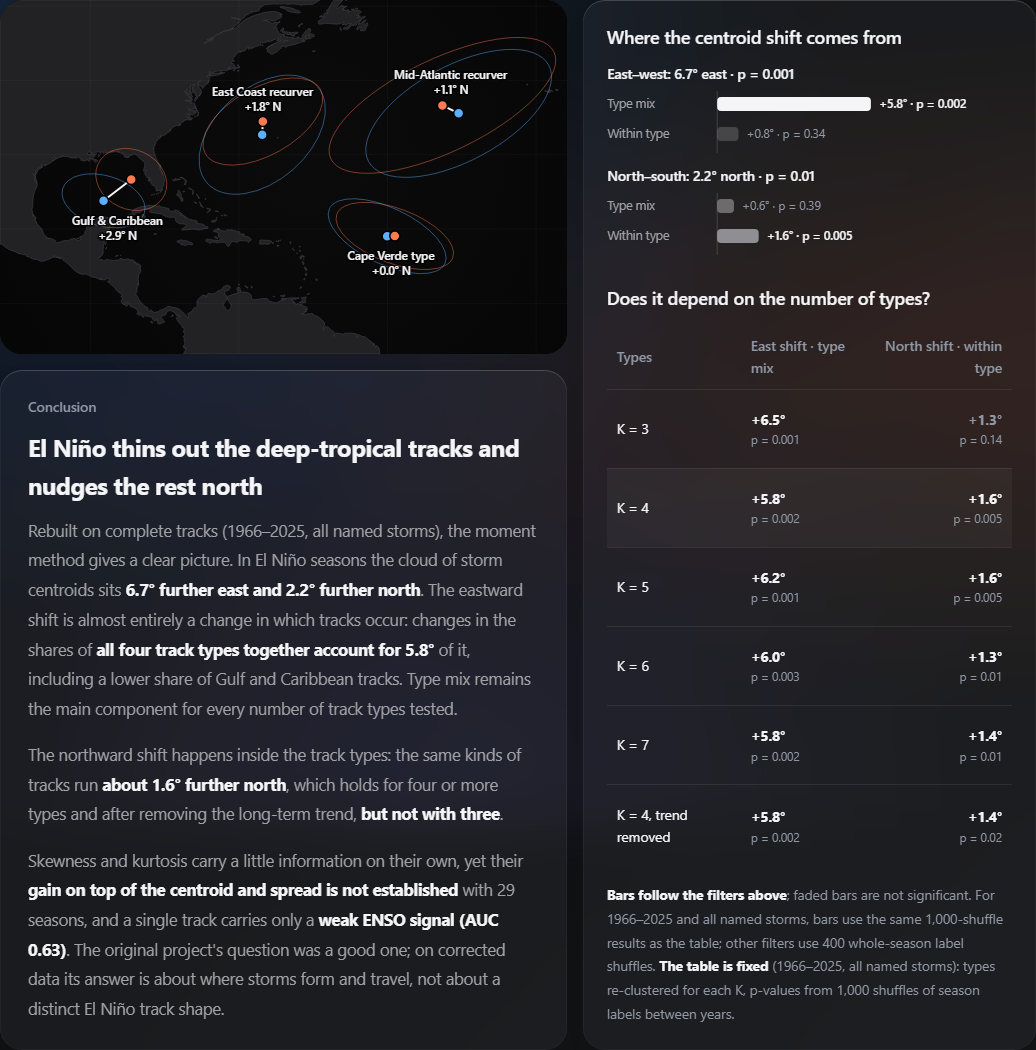
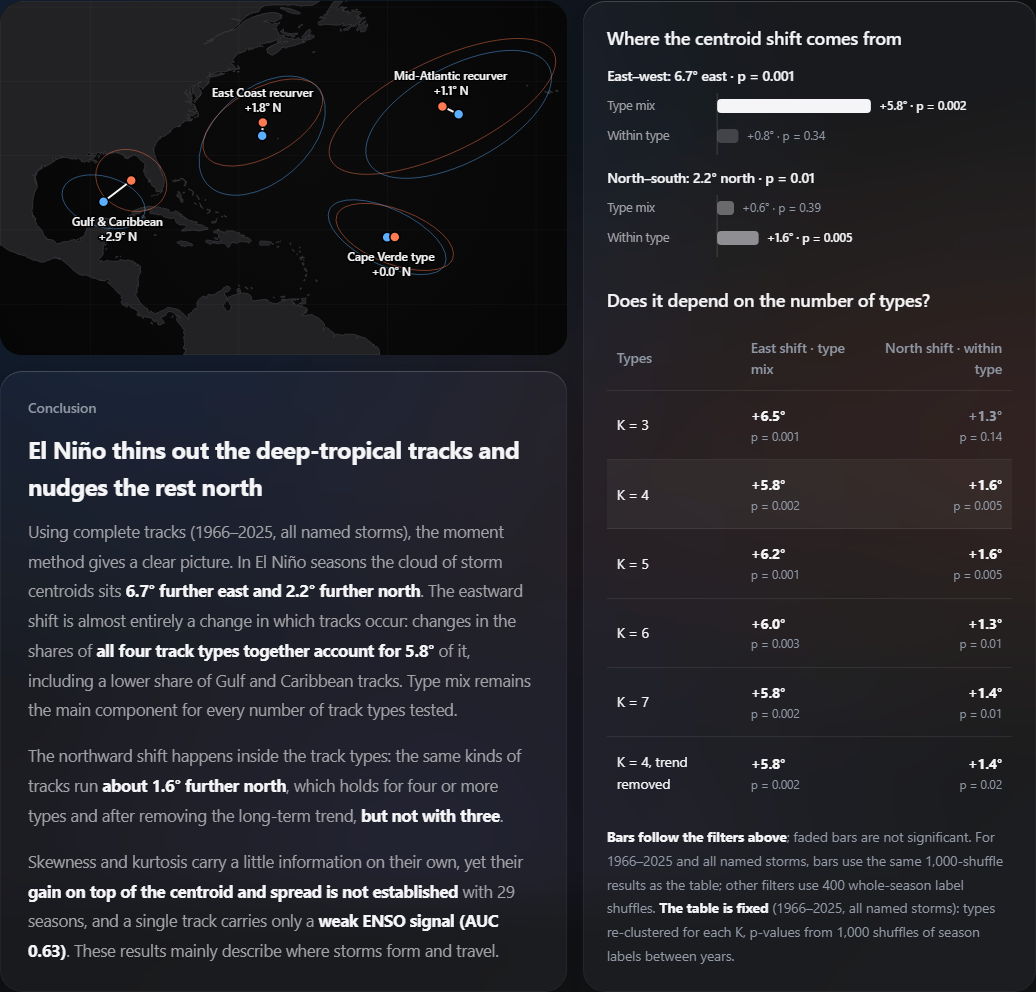
Remove original project commentary from the atlas and preview

diff --git a/docs/index.html b/docs/index.html
@@ -611,7 +611,7 @@ body {
       <div><h4 data-i="mLimits"></h4><ul data-i="mLimitsList"></ul></div>
     </div>
   </details>
-  <footer><span id="src"></span><span data-i="credit"></span></footer>
+  <footer><span id="src"></span></footer>
 </div>
 <div id="tip" hidden></div>
 
@@ -684,10 +684,10 @@ const I18N = {
     robH: 'Does it depend on the number of types?', robK: 'Types', robEast: 'East shift · type mix', robNorth: 'North shift · within type', robDetr: 'K = 4, trend removed',
     decNote: '<strong>Bars follow the filters above</strong>; faded bars are not significant. For 1966–2025 and all named storms, bars use the same 1,000-shuffle results as the table; other filters use 400 whole-season label shuffles. <strong>The table is fixed</strong> (1966–2025, all named storms): types re-clustered for each K, p-values from 1,000 shuffles of season labels between years.',
     conclIdx: 'Conclusion', conclH: 'El Niño thins out the deep-tropical tracks and nudges the rest north',
-    concl: (lon, lat, mix, within, n, auc) => `<span class="reading-block">Rebuilt on complete tracks (1966–2025, all named storms), the moment method gives a clear picture. In El Niño seasons the cloud of storm centroids sits <strong>${lon}° further east and ${lat}° further north</strong>. The eastward shift is almost entirely a change in which tracks occur: changes in the shares of <strong>all four track types together account for ${mix}°</strong> of it, including a lower share of Gulf and Caribbean tracks. Type mix remains the main component for every number of track types tested. </span><span class="reading-block">The northward shift happens inside the track types: the same kinds of tracks run <strong>about ${within}° further north</strong>, which holds for four or more types and after removing the long-term trend, <strong>but not with three</strong>. </span><span class="reading-block">Skewness and kurtosis carry a little information on their own, yet their <strong>gain on top of the centroid and spread is not established</strong> with ${n} seasons, and a single track carries only a <strong>weak ENSO signal (AUC ${auc})</strong>. The original project's question was a good one; on corrected data its answer is about where storms form and travel, not about a distinct El Niño track shape.</span>`,
+    concl: (lon, lat, mix, within, n, auc) => `<span class="reading-block">Using complete tracks (1966–2025, all named storms), the moment method gives a clear picture. In El Niño seasons the cloud of storm centroids sits <strong>${lon}° further east and ${lat}° further north</strong>. The eastward shift is almost entirely a change in which tracks occur: changes in the shares of <strong>all four track types together account for ${mix}°</strong> of it, including a lower share of Gulf and Caribbean tracks. Type mix remains the main component for every number of track types tested. </span><span class="reading-block">The northward shift happens inside the track types: the same kinds of tracks run <strong>about ${within}° further north</strong>, which holds for four or more types and after removing the long-term trend, <strong>but not with three</strong>. </span><span class="reading-block">Skewness and kurtosis carry a little information on their own, yet their <strong>gain on top of the centroid and spread is not established</strong> with ${n} seasons, and a single track carries only a <strong>weak ENSO signal (AUC ${auc})</strong>. These results mainly describe where storms form and travel.</span>`,
     fpIdx: 'Method check',
-    fpH2: 'Track moments, retested: the centroid shift holds; any gain from higher orders is unproven',
-    fpSub: 'The original project follows Nakamura, Lall, Kushnir and Camargo (2009, <i>Journal of Climate</i>), who summarized each North Atlantic track by its “mass moments” (centroid, variance and covariance) and grouped the tracks. Here the method is rebuilt on <strong>complete tracks</strong>, its ENSO signal is retested, and the project’s own extension to <strong>skewness and kurtosis</strong> is put to the test.',
+    fpH2: 'Track moments: the centroid shift holds; any gain from higher orders is unproven',
+    fpSub: 'Nakamura, Lall, Kushnir and Camargo (2009, <i>Journal of Climate</i>) summarized each North Atlantic track by its “mass moments” (centroid, variance and covariance) and grouped the tracks. This atlas applies mass moments to <strong>complete tracks</strong> to assess their ENSO signal and test whether <strong>skewness and kurtosis add information</strong>.',
     vCen: 'Centroid shift in El Niño years', vCenSub: (d, dir, px, py) => `and ${d}° further ${dir} · east–west ${px}, north–south ${py}`,
     vTilt: 'Northeast tilt (covariance)', vTiltSub: (a, b, p) => `El Niño ${a} vs La Niña ${b} deg² · ${p}`,
     vHigh: 'Skewness & kurtosis on top of the centroid and spread', vHighSub: (a, b, lo, hi) => `AUC ${a} → ${b}; season-bootstrap 95% interval for the gain: ${lo} to ${hi}`,
@@ -711,7 +711,7 @@ const I18N = {
     cenArrow: (dx, xd, dy, yd) => `${dx}° ${xd}, ${dy}° ${yd}`,
     cenLegDots: 'Storm centroids (El Niño / La Niña years)', cenLegEll: 'Typical 1σ shape', cenLegArrow: 'Arrow: La Niña mean → El Niño mean', centroidAt: 'Centroid',
     s3H: 'Third and fourth order: maybe a little extra, not yet established',
-    s3P: (h, hn, a, b, n, lo, hi) => `The original project added skewness and kurtosis. Their distributions overlap heavily between El Niño and La Niña storms, but they are not empty: on their own they reach an <strong>AUC of ${h}</strong> (shuffled seasons average ${hn}). Added to the centroid and spread they lift <strong>AUC from ${a} to ${b}</strong>, yet with only ${n} labelled seasons that gain sits within season-to-season noise (<strong>bootstrap 95% interval ${lo} to ${hi}</strong>). Whether they add anything beyond the lower moments is <strong>still an open question</strong>.`,
+    s3P: (h, hn, a, b, n, lo, hi) => `Skewness and kurtosis distributions overlap heavily between El Niño and La Niña storms, but they are not empty: on their own they reach an <strong>AUC of ${h}</strong> (shuffled seasons average ${hn}). Added to the centroid and spread they lift <strong>AUC from ${a} to ${b}</strong>, yet with only ${n} labelled seasons that gain sits within season-to-season noise (<strong>bootstrap 95% interval ${lo} to ${hi}</strong>). Whether they add anything beyond the lower moments is <strong>still an open question</strong>.`,
     ridgeH: 'Distribution of each higher moment', ridgeAria: 'Density curves of skewness and kurtosis for El Niño and La Niña storms',
     overlap: o => `${o}% overlap`, meanDiff: p => `mean difference ${p}`, ridgeFoot: 'Dashed lines: group means. Overlap: the shared area of the two normalised distributions.',
     allMomSum: 'All nine moments, by group', thOrder: 'Order', thMoment: 'Moment',
@@ -723,7 +723,6 @@ const I18N = {
     mMethodsList: '<li>ACE = sum of squared wind speeds at tropical-stage fixes ≥ 34 kt ÷ 10⁴.</li><li>US landfall: a fix with <code>LANDFALL = 0</code> and ≥ 34 kt inside the contiguous US polygon.</li><li>Significance: permutation tests by season (4,000 shuffles, fixed seed), so storms from the same year are never treated as independent. p-values are Monte Carlo estimates and can differ in the last digit from the Python scripts.</li><li>Track types: arc-length resampling to 16 points, then one K-Means model with K = 4 (highest silhouette for K = 3–7: <span class="mono" id="sil"></span>).</li><li>Moments: computed from the latitude and longitude of 6-hourly fixes; storms with fewer than 4 fixes are skipped.</li>',
     mLimitsList: '<li>Each ENSO phase includes relatively few seasons, so one extreme season can move an average.</li><li>Before satellites (pre-1966), short-lived storms far out at sea were missed, so the default period starts in 1966.</li><li>The AMO and the long-term Atlantic warming trend also affect activity and are not controlled for here. 2023 is the counterexample: an El Niño year that was still busy.</li><li>Everything shown is correlation. The mechanism (El Niño strengthens wind shear over the Caribbean) comes from the literature and is not tested here.</li>',
     phaseSampleSize: (y0, y1, nina, nino) => `${y0}–${y1}: ${nina} La Niña seasons and ${nino} El Niño seasons. With these small samples, one extreme season can move an average.`,
-    credit: 'Redesigned from sarika-debruyn/hurricane-prediction-ml.',
     src: (a, b) => `Data: ${a}; ${b}. Coastlines: Natural Earth 1:50m.`,
     phn: { nino: 'El Niño', neutral: 'Neutral', nina: 'La Niña' },
     phy: { nino: 'El Niño years', neutral: 'Neutral years', nina: 'La Niña years' },
@@ -816,10 +815,10 @@ const I18N = {
     robH: '换聚类数，结论还在吗？', robK: '类型数', robEast: '东移 · 类型构成', robNorth: '北移 · 类内', robDetr: 'K = 4，扣除长期趋势',
     decNote: '<strong>条形图随上方筛选变化</strong>，淡色表示不显著。1966 年起、全部风暴时，条形图与表格共用 1000 次置换的结果；其他筛选使用 400 次按整年打乱标签的置换。<strong>表格为固定结果</strong>（1966–2025 年，全部命名风暴）：每个 K 都重新聚类，p 值来自在年份之间打乱标签 1000 次。',
     conclIdx: '结论', conclH: '厄尔尼诺削减深热带路径，并把其余风暴往北推',
-    concl: (lon, lat, mix, within, n, auc) => `<span class="reading-block">在完整路径上重建矩方法后（1966–2025 年，全部命名风暴），结论很清楚。厄尔尼诺年，风暴质心整体<strong>偏东 ${lon}°、偏北 ${lat}°</strong>。东移几乎全部来自路径类型的变化：<strong>四类路径的构成变化合计贡献了其中的 ${mix}°</strong>，其中墨西哥湾—加勒比型占比下降。类型构成是东移的主要部分，这一点在所有测试的聚类数下都成立。</span><span class="reading-block">北移则发生在各类路径内部：同一类路径整体<strong>偏北约 ${within}°</strong>，在分成 4 类及以上、以及扣除长期趋势后都成立，但<strong>分成 3 类时不显著</strong>。</span><span class="reading-block">偏度和峰度单独使用时带有一点信息，但只有 ${n} 个年份，它们在质心和铺开范围之上的<strong>增益尚未证实</strong>；单条路径携带的 ENSO <strong>信号也很弱（AUC ${auc}）</strong>。原项目提出的问题是好问题；在修正后的数据上，答案在于风暴在哪里生成、往哪里走，而不在于存在一种独特的“厄尔尼诺路径形状”。</span>`,
+    concl: (lon, lat, mix, within, n, auc) => `<span class="reading-block">基于完整路径的矩分析（1966–2025 年，全部命名风暴），结论很清楚。厄尔尼诺年，风暴质心整体<strong>偏东 ${lon}°、偏北 ${lat}°</strong>。东移几乎全部来自路径类型的变化：<strong>四类路径的构成变化合计贡献了其中的 ${mix}°</strong>，其中墨西哥湾—加勒比型占比下降。类型构成是东移的主要部分，这一点在所有测试的聚类数下都成立。</span><span class="reading-block">北移则发生在各类路径内部：同一类路径整体<strong>偏北约 ${within}°</strong>，在分成 4 类及以上、以及扣除长期趋势后都成立，但<strong>分成 3 类时不显著</strong>。</span><span class="reading-block">偏度和峰度单独使用时带有一点信息，但只有 ${n} 个年份，它们在质心和铺开范围之上的<strong>增益尚未证实</strong>；单条路径携带的 ENSO <strong>信号也很弱（AUC ${auc}）</strong>。这些结果主要描述风暴在哪里生成、往哪里走。</span>`,
     fpIdx: '方法检验',
-    fpH2: '重新检验矩方法：质心偏移站得住，高阶矩的增益尚未证实',
-    fpSub: '原项目的方法来自 Nakamura、Lall、Kushnir 与 Camargo（2009，<i>Journal of Climate</i>）：用路径的“质量矩”（质心、方差、协方差）概括每条北大西洋路径，再据此分类。这里在<strong>完整路径</strong>上重建这套方法，重新检验它的 ENSO 信号，并检验原项目额外加入的<strong>偏度和峰度是否有用</strong>。',
+    fpH2: '路径的矩分析：质心偏移站得住，高阶矩的增益尚未证实',
+    fpSub: 'Nakamura、Lall、Kushnir 与 Camargo（2009，<i>Journal of Climate</i>）用路径的“质量矩”（质心、方差、协方差）概括每条北大西洋路径，再据此分类。本图谱基于<strong>完整路径</strong>进行矩分析，评估其中的 ENSO 信号，并检验<strong>偏度和峰度能否提供额外信息</strong>。',
     vCen: '厄尔尼诺年路径质心偏移', vCenSub: (d, dir, px, py) => `同时${dir} ${d}° · 东西向 ${px}，南北向 ${py}`,
     vTilt: '东北向倾斜（协方差）', vTiltSub: (a, b, p) => `厄尔尼诺 ${a}，拉尼娜 ${b}（度²）· ${p}`,
     vHigh: '在质心和铺开范围之上加入偏度与峰度', vHighSub: (a, b, lo, hi) => `AUC ${a} → ${b}；按年份 bootstrap 的增益 95% 区间：${lo} 至 ${hi}`,
@@ -843,7 +842,7 @@ const I18N = {
     cenArrow: (dx, xd, dy, yd) => `${xd} ${dx}°，${yd} ${dy}°`,
     cenLegDots: '风暴质心（厄尔尼诺年 / 拉尼娜年）', cenLegEll: '典型 1σ 形状', cenLegArrow: '箭头：拉尼娜均值 → 厄尔尼诺均值', centroidAt: '质心',
     s3H: '三阶、四阶矩：也许多一点信号，但尚未证实',
-    s3P: (h, hn, a, b, n, lo, hi) => `原项目额外加入了偏度和峰度。它们在两类年份之间的分布高度重叠，但并非毫无信息：单独使用时 <strong>AUC 为 ${h}</strong>（打乱年份标签后平均 ${hn}）。加在质心和铺开范围之上，<strong>AUC 从 ${a} 升到 ${b}</strong>；但只有 ${n} 个有标签的年份，这点增益落在年份间的随机波动之内（<strong>bootstrap 95% 区间 ${lo} 至 ${hi}</strong>）。它们能否在低阶矩之外提供额外信息，<strong>目前还没有定论</strong>。`,
+    s3P: (h, hn, a, b, n, lo, hi) => `偏度和峰度在两类年份之间的分布高度重叠，但并非毫无信息：单独使用时 <strong>AUC 为 ${h}</strong>（打乱年份标签后平均 ${hn}）。加在质心和铺开范围之上，<strong>AUC 从 ${a} 升到 ${b}</strong>；但只有 ${n} 个有标签的年份，这点增益落在年份间的随机波动之内（<strong>bootstrap 95% 区间 ${lo} 至 ${hi}</strong>）。它们能否在低阶矩之外提供额外信息，<strong>目前还没有定论</strong>。`,
     ridgeH: '各高阶矩的分布', ridgeAria: '厄尔尼诺年与拉尼娜年风暴的偏度、峰度分布曲线',
     overlap: o => `重叠 ${o}%`, meanDiff: p => `均值差 ${p}`, ridgeFoot: '虚线：组均值。重叠：两条归一化分布共同覆盖的面积。',
     allMomSum: '全部 9 个矩的分组数值', thOrder: '阶', thMoment: '矩',
@@ -855,7 +854,6 @@ const I18N = {
     mMethodsList: '<li>ACE = 热带阶段 ≥ 34 kt 的定时点风速平方和 ÷ 10⁴。</li><li>美国登陆：<code>LANDFALL = 0</code> 且 ≥ 34 kt 的点落在美国本土多边形内。</li><li>显著性：以年为单位的置换检验，4000 次，固定种子，没有把同一年的风暴当作独立样本。p 值是蒙特卡洛估计，末位可能与 Python 脚本略有差异。</li><li>路径类型：弧长重采样 16 点后做单一 K-Means，K = 4（K = 3–7 中轮廓系数最高，<span class="mono" id="sil"></span>）。</li><li>高阶矩：在 6 小时定时点的经纬度上计算；少于 4 个点的风暴不计入。</li>',
     mLimitsList: '<li>各 ENSO 位相的样本年份较少，单个极端季节就能拉动均值。</li><li>1966 年前没有卫星，远洋短命风暴有漏记，所以默认从 1966 年开始统计。</li><li>AMO 和大西洋变暖趋势也会影响活跃度，这里没有控制。2023 年就是厄尔尼诺年风暴依然很多的反例。</li><li>页面展示的是相关性；“厄尔尼诺增强加勒比上空的风切变”这一机制来自文献，不是本页检验的结果。</li>',
     phaseSampleSize: (y0, y1, nina, nino) => `${y0}–${y1} 年：拉尼娜 ${nina} 年、厄尔尼诺 ${nino} 年。样本年份较少，单个极端季节就能拉动均值。`,
-    credit: '由 sarika-debruyn/hurricane-prediction-ml 重新设计。',
     src: (a, b) => `数据：${a}；${b}。海岸线 Natural Earth 1:50m。`,
     phn: { nino: '厄尔尼诺', neutral: '中性', nina: '拉尼娜' },
     phy: { nino: '厄尔尼诺年', neutral: '中性年', nina: '拉尼娜年' },

diff --git a/site/template.html b/site/template.html
@@ -604,7 +604,7 @@ body {
       <div><h4 data-i="mLimits"></h4><ul data-i="mLimitsList"></ul></div>
     </div>
   </details>
-  <footer><span id="src"></span><span data-i="credit"></span></footer>
+  <footer><span id="src"></span></footer>
 </div>
 <div id="tip" hidden></div>
 
@@ -677,10 +677,10 @@ const I18N = {
     robH: 'Does it depend on the number of types?', robK: 'Types', robEast: 'East shift · type mix', robNorth: 'North shift · within type', robDetr: 'K = 4, trend removed',
     decNote: '<strong>Bars follow the filters above</strong>; faded bars are not significant. For 1966–2025 and all named storms, bars use the same 1,000-shuffle results as the table; other filters use 400 whole-season label shuffles. <strong>The table is fixed</strong> (1966–2025, all named storms): types re-clustered for each K, p-values from 1,000 shuffles of season labels between years.',
     conclIdx: 'Conclusion', conclH: 'El Niño thins out the deep-tropical tracks and nudges the rest north',
-    concl: (lon, lat, mix, within, n, auc) => `<span class="reading-block">Rebuilt on complete tracks (1966–2025, all named storms), the moment method gives a clear picture. In El Niño seasons the cloud of storm centroids sits <strong>${lon}° further east and ${lat}° further north</strong>. The eastward shift is almost entirely a change in which tracks occur: changes in the shares of <strong>all four track types together account for ${mix}°</strong> of it, including a lower share of Gulf and Caribbean tracks. Type mix remains the main component for every number of track types tested. </span><span class="reading-block">The northward shift happens inside the track types: the same kinds of tracks run <strong>about ${within}° further north</strong>, which holds for four or more types and after removing the long-term trend, <strong>but not with three</strong>. </span><span class="reading-block">Skewness and kurtosis carry a little information on their own, yet their <strong>gain on top of the centroid and spread is not established</strong> with ${n} seasons, and a single track carries only a <strong>weak ENSO signal (AUC ${auc})</strong>. The original project's question was a good one; on corrected data its answer is about where storms form and travel, not about a distinct El Niño track shape.</span>`,
+    concl: (lon, lat, mix, within, n, auc) => `<span class="reading-block">Using complete tracks (1966–2025, all named storms), the moment method gives a clear picture. In El Niño seasons the cloud of storm centroids sits <strong>${lon}° further east and ${lat}° further north</strong>. The eastward shift is almost entirely a change in which tracks occur: changes in the shares of <strong>all four track types together account for ${mix}°</strong> of it, including a lower share of Gulf and Caribbean tracks. Type mix remains the main component for every number of track types tested. </span><span class="reading-block">The northward shift happens inside the track types: the same kinds of tracks run <strong>about ${within}° further north</strong>, which holds for four or more types and after removing the long-term trend, <strong>but not with three</strong>. </span><span class="reading-block">Skewness and kurtosis carry a little information on their own, yet their <strong>gain on top of the centroid and spread is not established</strong> with ${n} seasons, and a single track carries only a <strong>weak ENSO signal (AUC ${auc})</strong>. These results mainly describe where storms form and travel.</span>`,
     fpIdx: 'Method check',
-    fpH2: 'Track moments, retested: the centroid shift holds; any gain from higher orders is unproven',
-    fpSub: 'The original project follows Nakamura, Lall, Kushnir and Camargo (2009, <i>Journal of Climate</i>), who summarized each North Atlantic track by its “mass moments” (centroid, variance and covariance) and grouped the tracks. Here the method is rebuilt on <strong>complete tracks</strong>, its ENSO signal is retested, and the project’s own extension to <strong>skewness and kurtosis</strong> is put to the test.',
+    fpH2: 'Track moments: the centroid shift holds; any gain from higher orders is unproven',
+    fpSub: 'Nakamura, Lall, Kushnir and Camargo (2009, <i>Journal of Climate</i>) summarized each North Atlantic track by its “mass moments” (centroid, variance and covariance) and grouped the tracks. This atlas applies mass moments to <strong>complete tracks</strong> to assess their ENSO signal and test whether <strong>skewness and kurtosis add information</strong>.',
     vCen: 'Centroid shift in El Niño years', vCenSub: (d, dir, px, py) => `and ${d}° further ${dir} · east–west ${px}, north–south ${py}`,
     vTilt: 'Northeast tilt (covariance)', vTiltSub: (a, b, p) => `El Niño ${a} vs La Niña ${b} deg² · ${p}`,
     vHigh: 'Skewness & kurtosis on top of the centroid and spread', vHighSub: (a, b, lo, hi) => `AUC ${a} → ${b}; season-bootstrap 95% interval for the gain: ${lo} to ${hi}`,
@@ -704,7 +704,7 @@ const I18N = {
     cenArrow: (dx, xd, dy, yd) => `${dx}° ${xd}, ${dy}° ${yd}`,
     cenLegDots: 'Storm centroids (El Niño / La Niña years)', cenLegEll: 'Typical 1σ shape', cenLegArrow: 'Arrow: La Niña mean → El Niño mean', centroidAt: 'Centroid',
     s3H: 'Third and fourth order: maybe a little extra, not yet established',
-    s3P: (h, hn, a, b, n, lo, hi) => `The original project added skewness and kurtosis. Their distributions overlap heavily between El Niño and La Niña storms, but they are not empty: on their own they reach an <strong>AUC of ${h}</strong> (shuffled seasons average ${hn}). Added to the centroid and spread they lift <strong>AUC from ${a} to ${b}</strong>, yet with only ${n} labelled seasons that gain sits within season-to-season noise (<strong>bootstrap 95% interval ${lo} to ${hi}</strong>). Whether they add anything beyond the lower moments is <strong>still an open question</strong>.`,
+    s3P: (h, hn, a, b, n, lo, hi) => `Skewness and kurtosis distributions overlap heavily between El Niño and La Niña storms, but they are not empty: on their own they reach an <strong>AUC of ${h}</strong> (shuffled seasons average ${hn}). Added to the centroid and spread they lift <strong>AUC from ${a} to ${b}</strong>, yet with only ${n} labelled seasons that gain sits within season-to-season noise (<strong>bootstrap 95% interval ${lo} to ${hi}</strong>). Whether they add anything beyond the lower moments is <strong>still an open question</strong>.`,
     ridgeH: 'Distribution of each higher moment', ridgeAria: 'Density curves of skewness and kurtosis for El Niño and La Niña storms',
     overlap: o => `${o}% overlap`, meanDiff: p => `mean difference ${p}`, ridgeFoot: 'Dashed lines: group means. Overlap: the shared area of the two normalised distributions.',
     allMomSum: 'All nine moments, by group', thOrder: 'Order', thMoment: 'Moment',
@@ -716,7 +716,6 @@ const I18N = {
     mMethodsList: '<li>ACE = sum of squared wind speeds at tropical-stage fixes ≥ 34 kt ÷ 10⁴.</li><li>US landfall: a fix with <code>LANDFALL = 0</code> and ≥ 34 kt inside the contiguous US polygon.</li><li>Significance: permutation tests by season (4,000 shuffles, fixed seed), so storms from the same year are never treated as independent. p-values are Monte Carlo estimates and can differ in the last digit from the Python scripts.</li><li>Track types: arc-length resampling to 16 points, then one K-Means model with K = 4 (highest silhouette for K = 3–7: <span class="mono" id="sil"></span>).</li><li>Moments: computed from the latitude and longitude of 6-hourly fixes; storms with fewer than 4 fixes are skipped.</li>',
     mLimitsList: '<li>Each ENSO phase includes relatively few seasons, so one extreme season can move an average.</li><li>Before satellites (pre-1966), short-lived storms far out at sea were missed, so the default period starts in 1966.</li><li>The AMO and the long-term Atlantic warming trend also affect activity and are not controlled for here. 2023 is the counterexample: an El Niño year that was still busy.</li><li>Everything shown is correlation. The mechanism (El Niño strengthens wind shear over the Caribbean) comes from the literature and is not tested here.</li>',
     phaseSampleSize: (y0, y1, nina, nino) => `${y0}–${y1}: ${nina} La Niña seasons and ${nino} El Niño seasons. With these small samples, one extreme season can move an average.`,
-    credit: 'Redesigned from sarika-debruyn/hurricane-prediction-ml.',
     src: (a, b) => `Data: ${a}; ${b}. Coastlines: Natural Earth 1:50m.`,
     phn: { nino: 'El Niño', neutral: 'Neutral', nina: 'La Niña' },
     phy: { nino: 'El Niño years', neutral: 'Neutral years', nina: 'La Niña years' },
@@ -809,10 +808,10 @@ const I18N = {
     robH: '换聚类数，结论还在吗？', robK: '类型数', robEast: '东移 · 类型构成', robNorth: '北移 · 类内', robDetr: 'K = 4，扣除长期趋势',
     decNote: '<strong>条形图随上方筛选变化</strong>，淡色表示不显著。1966 年起、全部风暴时，条形图与表格共用 1000 次置换的结果；其他筛选使用 400 次按整年打乱标签的置换。<strong>表格为固定结果</strong>（1966–2025 年，全部命名风暴）：每个 K 都重新聚类，p 值来自在年份之间打乱标签 1000 次。',
     conclIdx: '结论', conclH: '厄尔尼诺削减深热带路径，并把其余风暴往北推',
-    concl: (lon, lat, mix, within, n, auc) => `<span class="reading-block">在完整路径上重建矩方法后（1966–2025 年，全部命名风暴），结论很清楚。厄尔尼诺年，风暴质心整体<strong>偏东 ${lon}°、偏北 ${lat}°</strong>。东移几乎全部来自路径类型的变化：<strong>四类路径的构成变化合计贡献了其中的 ${mix}°</strong>，其中墨西哥湾—加勒比型占比下降。类型构成是东移的主要部分，这一点在所有测试的聚类数下都成立。</span><span class="reading-block">北移则发生在各类路径内部：同一类路径整体<strong>偏北约 ${within}°</strong>，在分成 4 类及以上、以及扣除长期趋势后都成立，但<strong>分成 3 类时不显著</strong>。</span><span class="reading-block">偏度和峰度单独使用时带有一点信息，但只有 ${n} 个年份，它们在质心和铺开范围之上的<strong>增益尚未证实</strong>；单条路径携带的 ENSO <strong>信号也很弱（AUC ${auc}）</strong>。原项目提出的问题是好问题；在修正后的数据上，答案在于风暴在哪里生成、往哪里走，而不在于存在一种独特的“厄尔尼诺路径形状”。</span>`,
+    concl: (lon, lat, mix, within, n, auc) => `<span class="reading-block">基于完整路径的矩分析（1966–2025 年，全部命名风暴），结论很清楚。厄尔尼诺年，风暴质心整体<strong>偏东 ${lon}°、偏北 ${lat}°</strong>。东移几乎全部来自路径类型的变化：<strong>四类路径的构成变化合计贡献了其中的 ${mix}°</strong>，其中墨西哥湾—加勒比型占比下降。类型构成是东移的主要部分，这一点在所有测试的聚类数下都成立。</span><span class="reading-block">北移则发生在各类路径内部：同一类路径整体<strong>偏北约 ${within}°</strong>，在分成 4 类及以上、以及扣除长期趋势后都成立，但<strong>分成 3 类时不显著</strong>。</span><span class="reading-block">偏度和峰度单独使用时带有一点信息，但只有 ${n} 个年份，它们在质心和铺开范围之上的<strong>增益尚未证实</strong>；单条路径携带的 ENSO <strong>信号也很弱（AUC ${auc}）</strong>。这些结果主要描述风暴在哪里生成、往哪里走。</span>`,
     fpIdx: '方法检验',
-    fpH2: '重新检验矩方法：质心偏移站得住，高阶矩的增益尚未证实',
-    fpSub: '原项目的方法来自 Nakamura、Lall、Kushnir 与 Camargo（2009，<i>Journal of Climate</i>）：用路径的“质量矩”（质心、方差、协方差）概括每条北大西洋路径，再据此分类。这里在<strong>完整路径</strong>上重建这套方法，重新检验它的 ENSO 信号，并检验原项目额外加入的<strong>偏度和峰度是否有用</strong>。',
+    fpH2: '路径的矩分析：质心偏移站得住，高阶矩的增益尚未证实',
+    fpSub: 'Nakamura、Lall、Kushnir 与 Camargo（2009，<i>Journal of Climate</i>）用路径的“质量矩”（质心、方差、协方差）概括每条北大西洋路径，再据此分类。本图谱基于<strong>完整路径</strong>进行矩分析，评估其中的 ENSO 信号，并检验<strong>偏度和峰度能否提供额外信息</strong>。',
     vCen: '厄尔尼诺年路径质心偏移', vCenSub: (d, dir, px, py) => `同时${dir} ${d}° · 东西向 ${px}，南北向 ${py}`,
     vTilt: '东北向倾斜（协方差）', vTiltSub: (a, b, p) => `厄尔尼诺 ${a}，拉尼娜 ${b}（度²）· ${p}`,
     vHigh: '在质心和铺开范围之上加入偏度与峰度', vHighSub: (a, b, lo, hi) => `AUC ${a} → ${b}；按年份 bootstrap 的增益 95% 区间：${lo} 至 ${hi}`,
@@ -836,7 +835,7 @@ const I18N = {
     cenArrow: (dx, xd, dy, yd) => `${xd} ${dx}°，${yd} ${dy}°`,
     cenLegDots: '风暴质心（厄尔尼诺年 / 拉尼娜年）', cenLegEll: '典型 1σ 形状', cenLegArrow: '箭头：拉尼娜均值 → 厄尔尼诺均值', centroidAt: '质心',
     s3H: '三阶、四阶矩：也许多一点信号，但尚未证实',
-    s3P: (h, hn, a, b, n, lo, hi) => `原项目额外加入了偏度和峰度。它们在两类年份之间的分布高度重叠，但并非毫无信息：单独使用时 <strong>AUC 为 ${h}</strong>（打乱年份标签后平均 ${hn}）。加在质心和铺开范围之上，<strong>AUC 从 ${a} 升到 ${b}</strong>；但只有 ${n} 个有标签的年份，这点增益落在年份间的随机波动之内（<strong>bootstrap 95% 区间 ${lo} 至 ${hi}</strong>）。它们能否在低阶矩之外提供额外信息，<strong>目前还没有定论</strong>。`,
+    s3P: (h, hn, a, b, n, lo, hi) => `偏度和峰度在两类年份之间的分布高度重叠，但并非毫无信息：单独使用时 <strong>AUC 为 ${h}</strong>（打乱年份标签后平均 ${hn}）。加在质心和铺开范围之上，<strong>AUC 从 ${a} 升到 ${b}</strong>；但只有 ${n} 个有标签的年份，这点增益落在年份间的随机波动之内（<strong>bootstrap 95% 区间 ${lo} 至 ${hi}</strong>）。它们能否在低阶矩之外提供额外信息，<strong>目前还没有定论</strong>。`,
     ridgeH: '各高阶矩的分布', ridgeAria: '厄尔尼诺年与拉尼娜年风暴的偏度、峰度分布曲线',
     overlap: o => `重叠 ${o}%`, meanDiff: p => `均值差 ${p}`, ridgeFoot: '虚线：组均值。重叠：两条归一化分布共同覆盖的面积。',
     allMomSum: '全部 9 个矩的分组数值', thOrder: '阶', thMoment: '矩',
@@ -848,7 +847,6 @@ const I18N = {
     mMethodsList: '<li>ACE = 热带阶段 ≥ 34 kt 的定时点风速平方和 ÷ 10⁴。</li><li>美国登陆：<code>LANDFALL = 0</code> 且 ≥ 34 kt 的点落在美国本土多边形内。</li><li>显著性：以年为单位的置换检验，4000 次，固定种子，没有把同一年的风暴当作独立样本。p 值是蒙特卡洛估计，末位可能与 Python 脚本略有差异。</li><li>路径类型：弧长重采样 16 点后做单一 K-Means，K = 4（K = 3–7 中轮廓系数最高，<span class="mono" id="sil"></span>）。</li><li>高阶矩：在 6 小时定时点的经纬度上计算；少于 4 个点的风暴不计入。</li>',
     mLimitsList: '<li>各 ENSO 位相的样本年份较少，单个极端季节就能拉动均值。</li><li>1966 年前没有卫星，远洋短命风暴有漏记，所以默认从 1966 年开始统计。</li><li>AMO 和大西洋变暖趋势也会影响活跃度，这里没有控制。2023 年就是厄尔尼诺年风暴依然很多的反例。</li><li>页面展示的是相关性；“厄尔尼诺增强加勒比上空的风切变”这一机制来自文献，不是本页检验的结果。</li>',
     phaseSampleSize: (y0, y1, nina, nino) => `${y0}–${y1} 年：拉尼娜 ${nina} 年、厄尔尼诺 ${nino} 年。样本年份较少，单个极端季节就能拉动均值。`,
-    credit: '由 sarika-debruyn/hurricane-prediction-ml 重新设计。',
     src: (a, b) => `数据：${a}；${b}。海岸线 Natural Earth 1:50m。`,
     phn: { nino: '厄尔尼诺', neutral: '中性', nina: '拉尼娜' },
     phy: { nino: '厄尔尼诺年', neutral: '中性年', nina: '拉尼娜年' },
